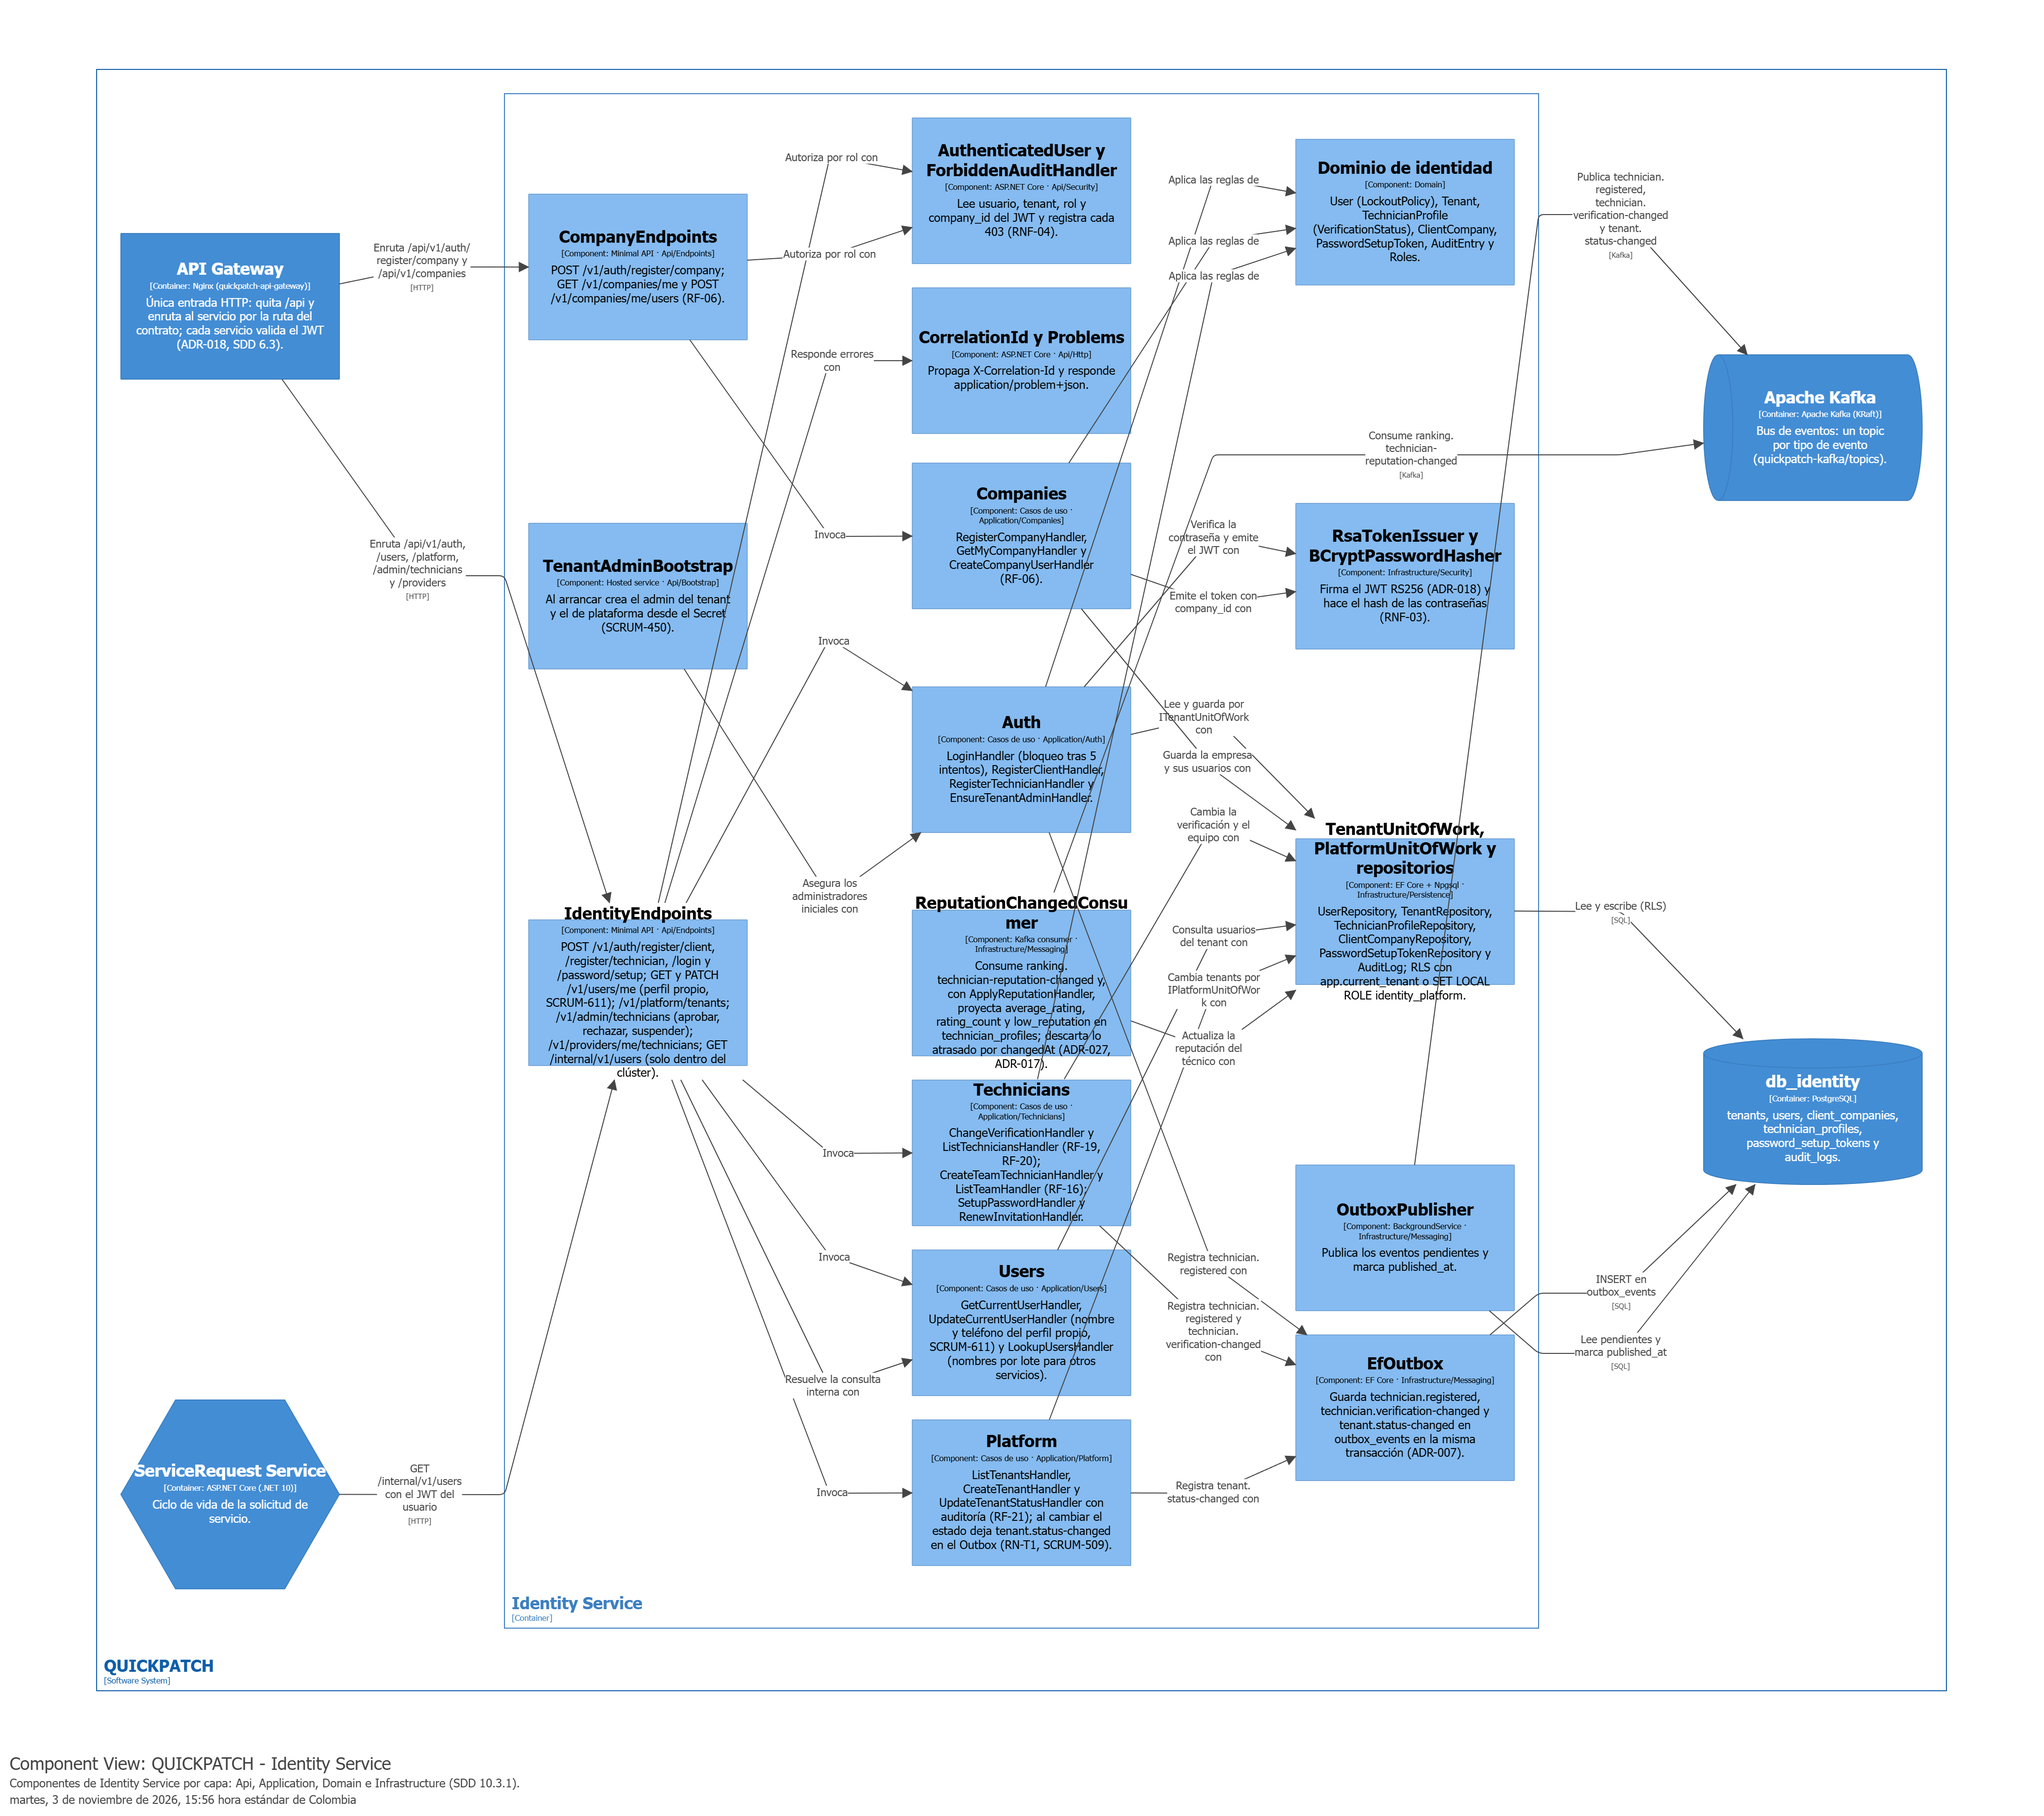
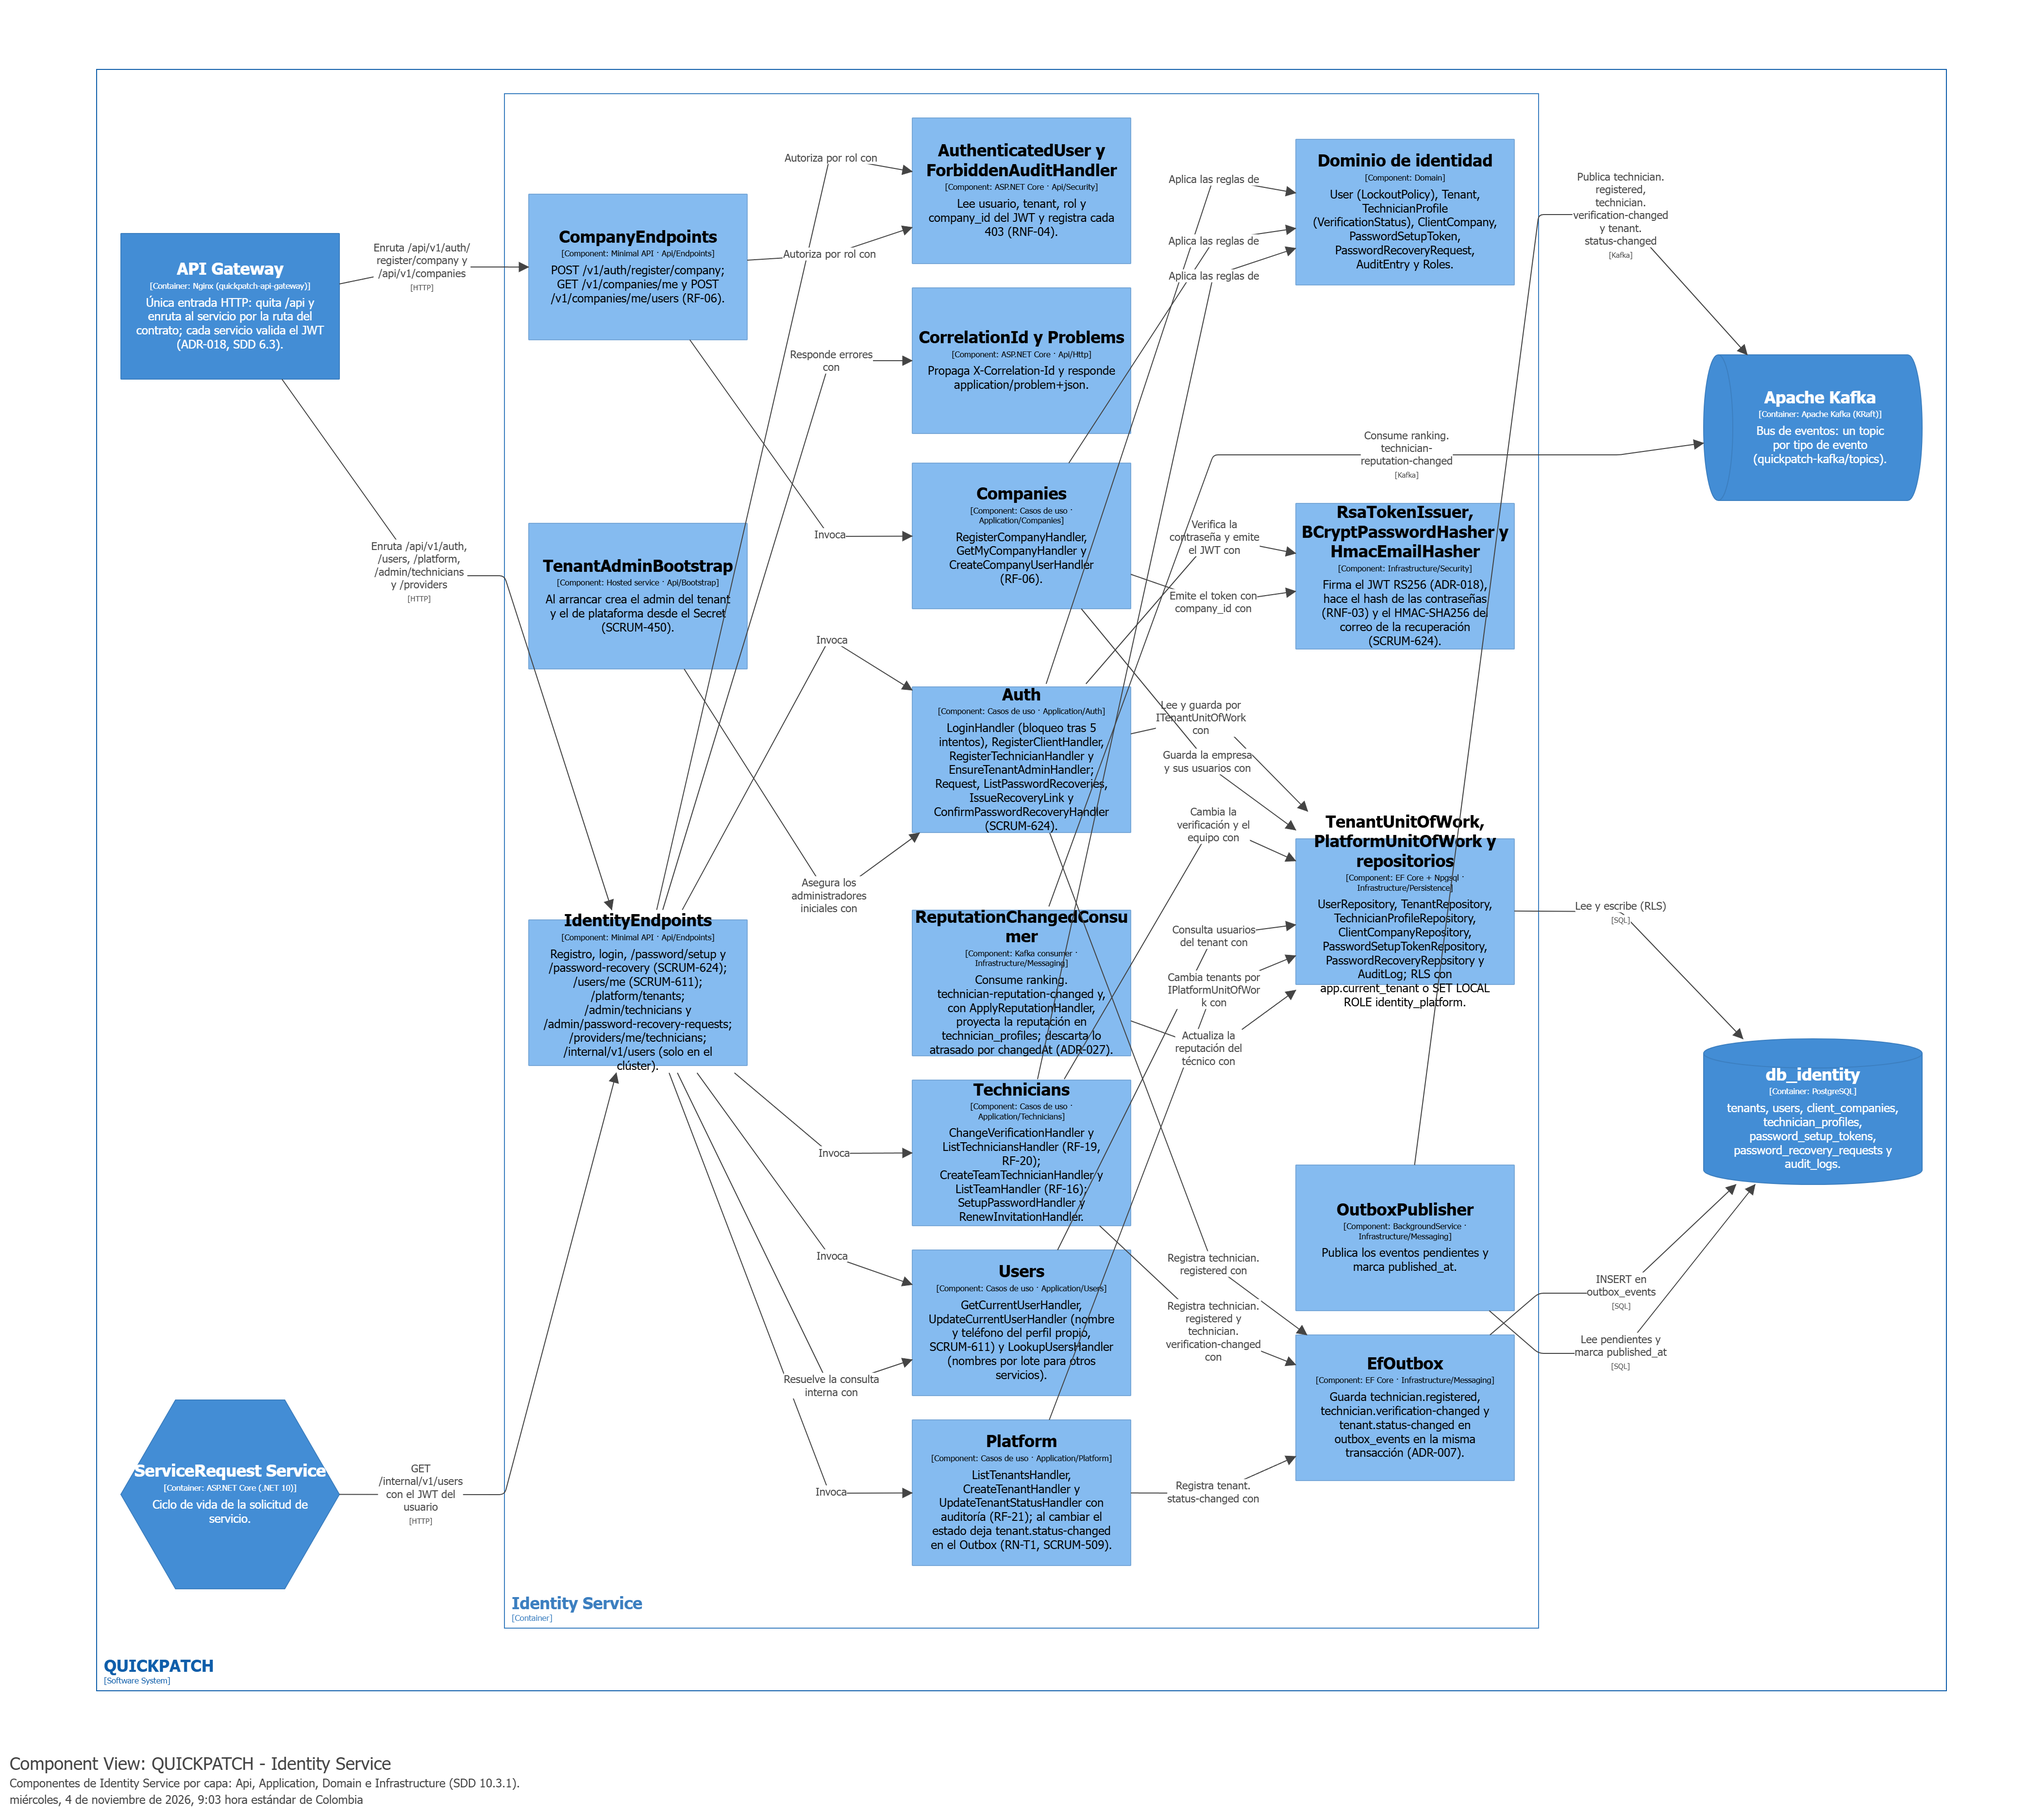
docs(sdd): recuperacion de contrasena en Identity y Ranking en produccion (SCRUM-584)
El diagrama de componentes de Identity no tenia la recuperacion de la
contrasena, que ya esta en produccion (Identity 0.7.0): endpoints, los cuatro
handlers, PasswordRecoveryRequest, PasswordRecoveryRepository y HmacEmailHasher.
Ranking figuraba sin desplegar. Figuras 10 y 16 regeneradas; dos descripciones
de Identity acortadas para que el texto quepa en su caja.

diff --git a/docs/architecture/SDD.md b/docs/architecture/SDD.md
@@ -419,7 +419,7 @@ El Gateway no contiene reglas propias de matching, solicitudes, pagos, ranking n
 | `Role` | Concepto de autorización | Conjunto de permisos para cada tipo de usuario. |
 | `AuthenticatedContext` | Objeto lógico | Propaga `userId`, `tenantId` y rol. |
 
-**Datos documentados:** `tenants`, `users`, `client_companies`, `technician_profiles`, `password_setup_tokens`, `audit_logs` y `outbox_events` (DD 5.12).
+**Datos documentados:** `tenants`, `users`, `client_companies`, `technician_profiles`, `password_setup_tokens`, `password_recovery_requests`, `password_recovery_attempts`, `audit_logs` y `outbox_events` (DD 5.12 y 5.19).
 
 **Componentes (C4).**
 
@@ -435,7 +435,7 @@ En el incremento del Sprint 4, Identity suma:
 - **Equipo del proveedor** (RF-16; SCRUM-97, SCRUM-461): el proveedor da de alta técnicos sin contraseña (`/v1/providers/me/technicians`) y recibe un enlace de invitación de un solo uso; el técnico define su contraseña con `POST /v1/auth/password/setup`. En `password_setup_tokens` solo se guarda el hash del token, y el enlace apunta al panel de cada ambiente (`Invitations__LinkBase`).
 - **Creación de tenants** (RF-21; SCRUM-462): `POST /v1/platform/tenants` crea la empresa oferente activa en `PlatformUnitOfWork` y registra `crear_tenant` en `audit_logs`; un NIT repetido responde `409 nit-registrado`.
 - **Cuenta corporativa** (RF-06; SCRUM-66): `POST /v1/auth/register/company` crea en una transacción la empresa cliente (`client_companies`) y su primer `empresa_contacto` en el tenant del canal; la empresa es una cuenta dentro del tenant, no un tenant (DEP-13). Los demás usuarios entran con la misma invitación de un solo uso del equipo del proveedor, y el token del `empresa_contacto` lleva `company_id`.
-- **En el Sprint 5:** la edición del perfil propio (`PATCH /v1/users/me`, solo nombre y teléfono, `UpdateCurrentUserHandler`, SCRUM-611), la proyección de la reputación que publica Ranking (`ReputationChangedConsumer`, SCRUM-498) y `tenant.status-changed`, que `UpdateTenantStatusHandler` deja en el Outbox al activar o desactivar un tenant (RN-T1, SCRUM-509). La recuperación de la contraseña tiene contrato (identity 1.10.0) y modelo (DD 5.19); su implementación está en revisión (SCRUM-625).
+- **En el Sprint 5:** la edición del perfil propio (`PATCH /v1/users/me`, solo nombre y teléfono, `UpdateCurrentUserHandler`, SCRUM-611), la proyección de la reputación que publica Ranking (`ReputationChangedConsumer`, SCRUM-498) y `tenant.status-changed`, que `UpdateTenantStatusHandler` deja en el Outbox al activar o desactivar un tenant (RN-T1, SCRUM-509). La recuperación de la contraseña (contrato identity 1.10.0, DD 5.19, SCRUM-624): el usuario la pide con su correo (`RequestPasswordRecoveryHandler`, límite de 3 por hora con el HMAC del correo de `HmacEmailHasher`), el `admin_tenant` la ve en `/v1/admin/password-recovery-requests` y genera un enlace de un solo uso que vence en 1 hora (`IssueRecoveryLinkHandler`), y el usuario define la contraseña nueva (`ConfirmPasswordRecoveryHandler`); la solicitud vive en `password_recovery_requests` (`PasswordRecoveryRepository`). En QA y en producción desde el 4 de noviembre de 2026 (Identity 0.7.0).
 - **Consulta interna de nombres** (SCRUM-91): `GET /internal/v1/users` (`identity-internal.v1.yaml`) devuelve por lote el nombre y el contacto de usuarios del tenant a otros servicios dentro del clúster; el servicio que llama reenvía el JWT del usuario, así que el tenant sigue saliendo del token. No pasa por el API Gateway ni tiene ruta en el Ingress. ServiceRequest la usa en el detalle de la solicitud para mostrar el cliente al técnico asignado y el técnico al cliente.
 
 ## 6.5 Actors Service
@@ -641,9 +641,9 @@ No tiene endpoints de negocio: el gateway no le enruta nada (ADR-025). Si Rankin
 
 ![Componentes de Ranking Service](diagrams/c4/C4-04-Componentes-Ranking.png)
 
-**Figura 16. Componentes de Ranking Service según ADR-027 (C4 · Component; implementado en SCRUM-498 y desplegado en QA con SCRUM-512): consume `service-request.rated` y publica `ranking.technician-reputation-changed` con Outbox; sin API REST desde el gateway (ADR-025). Vista `C4-04-Componentes-Ranking`.**
+**Figura 16. Componentes de Ranking Service según ADR-027 (C4 · Component; implementado en SCRUM-498, desplegado en QA con SCRUM-512 y en producción con SCRUM-522): consume `service-request.rated` y publica `ranking.technician-reputation-changed` con Outbox; sin API REST desde el gateway (ADR-025). Vista `C4-04-Componentes-Ranking`.**
 
-Implementado en `quickpatch-ranking` (SCRUM-498), con su base `db_ranking` bajo RLS. Corre en QA desde el 28 de octubre de 2026 (`release/0.1.0`, SCRUM-512); a producción llega con la promoción del MVP (SCRUM-518).
+Implementado en `quickpatch-ranking` (SCRUM-498), con su base `db_ranking` bajo RLS. Corre en QA desde el 28 de octubre de 2026 (`release/0.1.0`, SCRUM-512) y en producción desde el 4 de noviembre de 2026, con la promoción del MVP (SCRUM-518, SCRUM-522).
 
 ## 6.10 Payments Service
 
@@ -2253,6 +2253,7 @@ La V4 lleva el documento al Sprint 5 y responde a las observaciones del profesor
 |---|---|---|
 | Contexto y contenedores reorganizados en el DSL: título en cada vista, leyenda en la imagen y contenedores agrupados en clientes, microservicios, mensajería y almacenamiento, y PostgreSQL | 4 y 5.1 (figuras 2 y 3) | SCRUM-578 |
 | Convención de paquetes por capa de los microservicios y su estado por servicio | 10.2 | SCRUM-586 y SCRUM-587 |
+| Identity con la recuperación de la contraseña (endpoints, cuatro handlers, `PasswordRecoveryRequest`, `PasswordRecoveryRepository` y `HmacEmailHasher`) y Ranking desplegado en QA y en producción; figuras 10 y 16 regeneradas | 6.4 y 6.9 (figuras 10 y 16) | SCRUM-584 |
 | Componentes de Identity, Catalog, ServiceRequest y Payments con los nombres del código | 6.4, 6.6, 6.7 y 6.10 (figuras 10, 12, 13 y 17) | SCRUM-581 y SCRUM-582 |
 | Escenario de asignación del técnico con pasos numerados y eventos por nombre | 8 (figura 22b) | SCRUM-590 |
 | Componentes del Sprint 5, dinámica de la calificación y despliegue real | 6, 8 (figura 27) y 9 | SCRUM-549 y SCRUM-550 |
